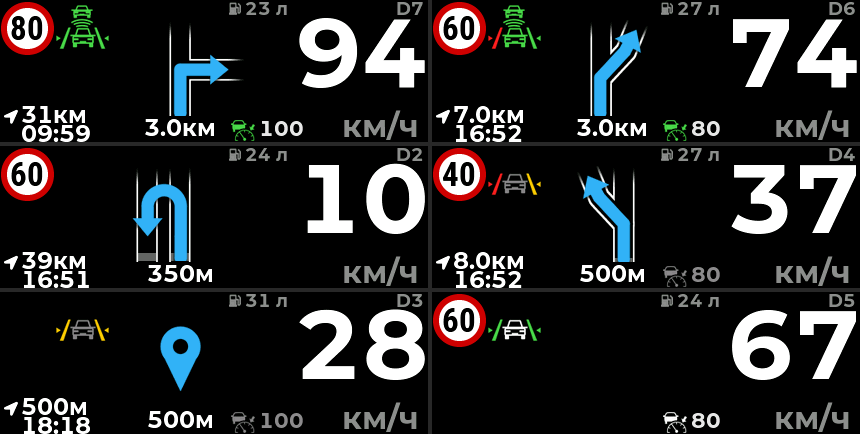
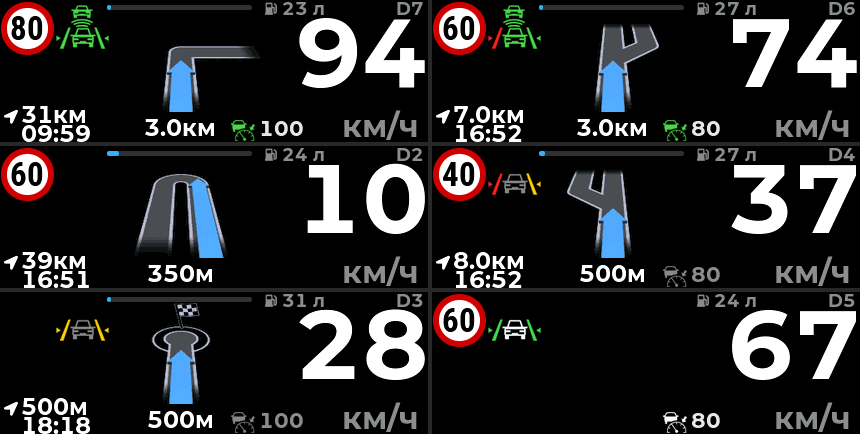
README: new screenshots with animated arrows and progress bar
Claude-Session: https://claude.ai/code/session_01XbC1F6pNtmcao3wMqEYqXB

diff --git a/README.md b/README.md
@@ -73,7 +73,7 @@ Photo supplied by WARMW00D: speed, gear, speed-limit sign, navigation and fuel i
 
 ### Screens from real MLB-Evo logs
 
-Rendered from Audi A4 B9 (MLB-Evo) CAN logs through the real decoder and UI (host render of the 428×142 panel): navigation arrows, speed-limit signs, ACC with the set speed, Lane Assist, destination.
+Rendered from Audi A4 B9 (MLB-Evo) CAN logs through the real decoder and UI (host render of the 428×142 panel): animated navigation arrows (v31.2.0, with the progress bar above them), speed-limit signs, ACC with the set speed, Lane Assist, arrival. The logs do not record the progress-bar value of the MLB-Evo navigation, so its fill in these renders is illustrative (derived from the distance).
 
 ![MLB-Evo screens: navigation, ACC, Lane Assist](docs/images/mlb-screens.png)
 
@@ -281,7 +281,7 @@ MQB was checked only with logs from one Skoda Octavia A7 (pre-facelift, retrofit
 | Lane Assist | `0x397` | `0x397`, same decoder; ACL without rate limit (green lasts 0.1–1 s) | works; warning flags not seen in the log |
 | Brightness | `0x5F0` + light sensor `0x5A0` + wheel `0x64F` | `0x5F0` byte 0; wheel from `0x5F0` byte 2 (16\|8); `0x5A0` and `0x64F` absent | ⚠ wheel byte seen only at 100 (lights off) |
 
-Rendered from the Octavia A7 logs through the real decoder and UI (host render of the 428×142 panel; speed-limit signs, ACC with a vehicle ahead, Lane Assist lines):
+Rendered from the Octavia A7 logs through the real decoder and UI (host render of the 428×142 panel; animated navigation arrows with the progress bar, speed-limit signs, ACC, Lane Assist lines):
 
 ![MQB screens: ACC, Lane Assist, navigation](docs/images/mqb-screens.png)
 
